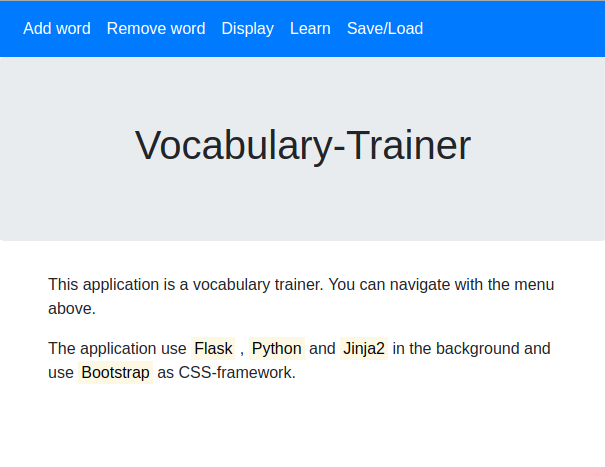
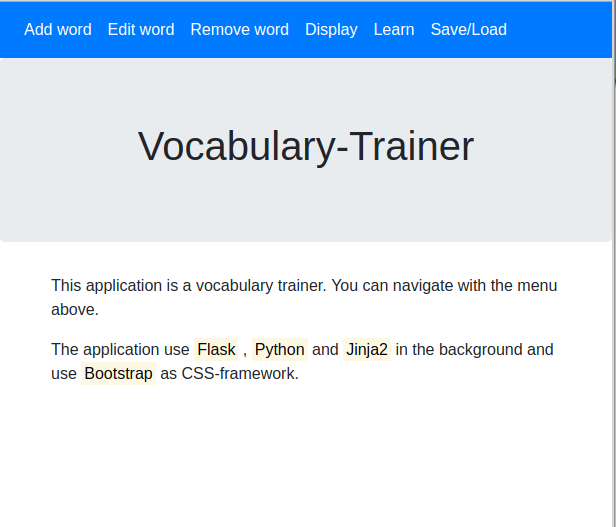
Add files via upload

Changed region(s): [[0.0595, 0.5096, 0.9223, 0.8394], [0.0, 0.0, 1.0, 1.0], [0.2083, 0.2398, 0.7736, 0.3597]]

diff --git a/templates/edit.html b/templates/edit.html
@@ -14,6 +14,7 @@
     <script src="https://stackpath.bootstrapcdn.com/bootstrap/4.1.3/js/bootstrap.min.js" integrity="sha384-ChfqqxuZUCnJSK3+MXmPNIyE6ZbWh2IMqE241rYiqJxyMiZ6OW/JmZQ5stwEULTy"
         crossorigin="anonymous"></script>
     <style>
+        nav {}
     </style>
 </head>
 
@@ -25,9 +26,6 @@
             </li>
             <li class="nav-item active">
                 <a class="nav-link" href="http://127.0.0.1:5000/add">Add word</a>
-            </li>
-            <li class="nav-item active">
-                <a class="nav-link" href="http://127.0.0.1:5000/edit">Edit word</a>
             </li>
             <li class="nav-item active">
                 <a class="nav-link" href="http://127.0.0.1:5000/remove">Remove word</a>
@@ -47,24 +45,29 @@
         <h1 class="text-center">Vocabulary-Trainer</h1>
     </div>
     <div class="container">
-        <table class="table">
-            {% for com in data %}
-                <th>Box{{com.id}}</th>
-                <tbody>
-                    {% for cd in com.get_cards() %}
-                        <tr>
-                            <td>{{cd.get_front()}}</td>
-                            <td>{{cd.get_back()}}</td>
-                        </tr>
-                    {% endfor %}
-                </tbody>
-            {% endfor %}
-        </table>
-        {% if status %}
-          <div class="alert alert-info">
-            At the moment the filling box is empty.
-          </div>
-        {% endif %}
+        <form action="http://127.0.0.1:5000/edit" method="POST" class="form-group">
+            <label for="deck">Deck:</label>
+            <select name="deck" class="form-control" onclick="this.form.submit()">
+                <option value="1">Deck 1</option>
+                <option value="2">Deck 2</option>
+                <option value="3">Deck 3</option>
+                <option value="4">Deck 4</option>
+                <option value="5">Deck 5</option>
+            </select>
+            {% if status %}
+            <select name="card" class="form-control">
+                {% for cd in cards %}
+                <option value={{loop.index}}>{{cd.get_front()}}, {{cd.get_back()}}</option>
+                {% endfor %}
+            </select>
+            <label for="front">Front</label>
+            <input type="text" name="front" class="form-control">
+            <label for="back">Back</label>
+            <input type="text" name="back" class="form-control">
+            {% endif %}
+            <button type="submit" class="btn btn-block btn-primary btn-large">Change</button>
+        </form>
+       
     </div>
 </body>
 

diff --git a/templates/io.html b/templates/io.html
@@ -25,6 +25,12 @@
                 <a class="nav-link" href="http://127.0.0.1:5000/">Back</a>
             </li>
             <li class="nav-item active">
+                <a class="nav-link" href="http://127.0.0.1:5000/add">Add word</a>
+            </li>
+            <li class="nav-item active">
+                <a class="nav-link" href="http://127.0.0.1:5000/edit">Edit word</a>
+            </li>
+            <li class="nav-item active">
                 <a class="nav-link" href="http://127.0.0.1:5000/remove">Remove word</a>
             </li>
             <li class="nav-item active">

diff --git a/templates/index.html b/templates/index.html
@@ -25,6 +25,9 @@
                 <a class="nav-link" href="http://127.0.0.1:5000/add">Add word</a>
             </li>
             <li class="nav-item active">
+                <a class="nav-link" href="http://127.0.0.1:5000/edit">Edit word</a>
+            </li>
+            <li class="nav-item active">
                 <a class="nav-link" href="http://127.0.0.1:5000/remove">Remove word</a>
             </li>
             <li class="nav-item active">

diff --git a/templates/learn.html b/templates/learn.html
@@ -28,6 +28,9 @@
                 <a class="nav-link" href="http://127.0.0.1:5000/add">Add word</a>
             </li>
             <li class="nav-item active">
+                <a class="nav-link" href="http://127.0.0.1:5000/edit">Edit word</a>
+            </li>
+            <li class="nav-item active">
                 <a class="nav-link" href="http://127.0.0.1:5000/display">Display</a>
             </li>
             <li class="nav-item active">

diff --git a/templates/remove.html b/templates/remove.html
@@ -28,6 +28,9 @@
                 <a class="nav-link" href="http://127.0.0.1:5000/add">Add word</a>
             </li>
             <li class="nav-item active">
+                <a class="nav-link" href="http://127.0.0.1:5000/edit">Edit word</a>
+            </li>
+            <li class="nav-item active">
                 <a class="nav-link" href="http://127.0.0.1:5000/display">Display</a>
             </li>
             <li class="nav-item active">

diff --git a/templates/add.html b/templates/add.html
@@ -25,6 +25,9 @@
                 <a class="nav-link" href="http://127.0.0.1:5000/">Back</a>
             </li>
             <li class="nav-item active">
+                <a class="nav-link" href="http://127.0.0.1:5000/edit">Edit word</a>
+            </li>
+            <li class="nav-item active">
                 <a class="nav-link" href="http://127.0.0.1:5000/remove">Remove word</a>
             </li>
             <li class="nav-item active">

diff --git a/main.py b/main.py
@@ -98,5 +98,24 @@ def load():
     box.load("data.csv")
     return render_template("io.html")
 
+@app.route("/edit", methods = ["POST", "GET"])
+def edit():
+    flag = False
+    if request.method == "POST":
+        deck = int(request.form["deck"]) -1
+        com = box.get_compartments()[deck]
+        flag = True
+        if "front" in request.form:
+            if len(request.form["front"]) > 0 and len(request.form["back"]) > 0:
+                id = int(request.form["card"]) -1
+                com = box.get_compartments()[deck]
+                cs = com.get_cards()
+                cs[id].set_front(request.form["front"])
+                cs[id].set_back(request.form["back"])
+        return render_template("edit.html", cards = com.get_cards(), status = flag)
+    else:
+        return render_template("edit.html", status = flag)
+
 if __name__ == "__main__":
     app.run()
+    # app.run(debug = True)
